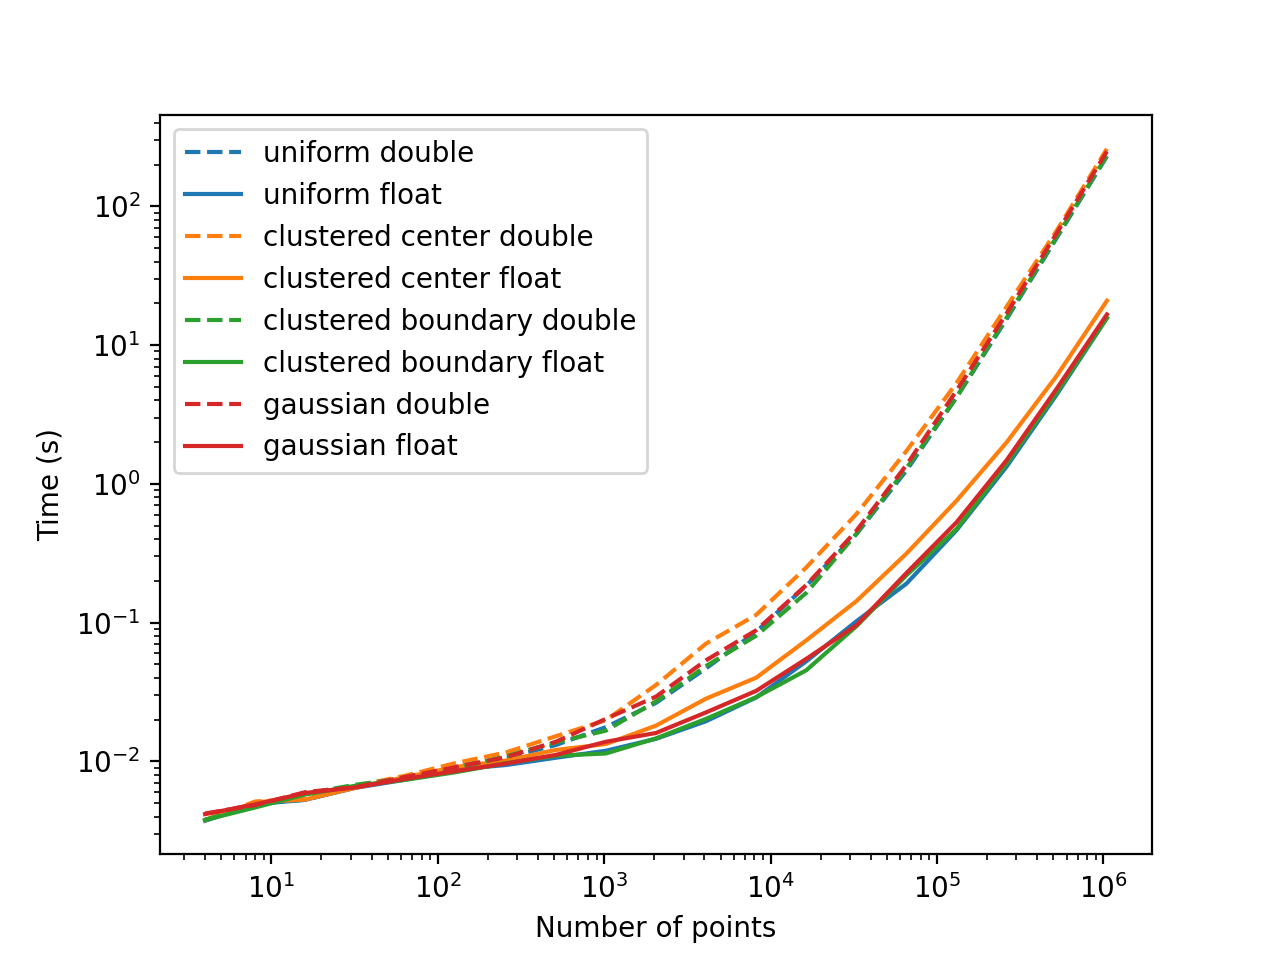
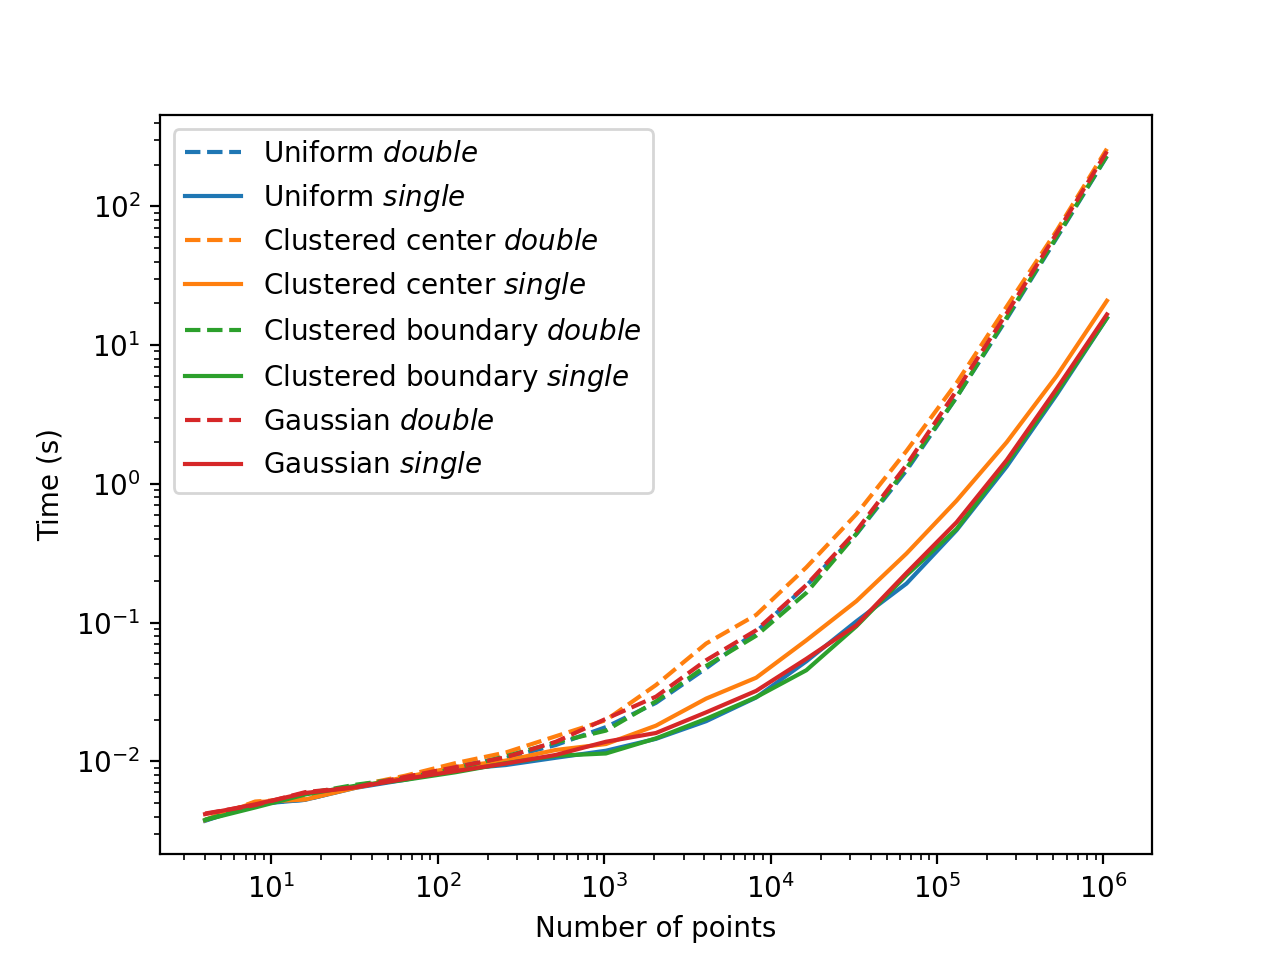
maybe semi final commit

Changed region(s): [[0.125, 0.125, 0.5312, 0.5]]

diff --git a/main/plotting/timeDistrib/plot.py b/main/plotting/timeDistrib/plot.py
@@ -4,45 +4,45 @@ import numpy as np
 
 df = pd.read_csv("./data.csv")
 
-for i, numpoints in enumerate([100, 1000, 10000]):
-	subdf = df[ df["npts"] == numpoints ]
-	print(subdf)
+npoints_list = [100, 1000, 10000]
 
-	plt.subplot(3, 1, i+1)
-	
-	# Average across seeds
+fig, axes = plt.subplots(len(npoints_list), 1, figsize=(10, 9), sharex=True)
+
+for i, numpoints in enumerate(npoints_list):
+	subdf = df[df["npts"] == numpoints]
+
 	metrics = ["prepForInsertTimeTot", "insertTimeTot", "flipTimeTot", "updatePtsTimeTot"]
 	avg_subdf = subdf.groupby("distribution")[metrics].mean()
 
-	#print(avg_subdf)
-
-	# Normalize each row so values sum to 1 (i.e., percentage)
 	normalized = avg_subdf.div(avg_subdf.sum(axis=1), axis=0)
 
-	# Labels and styling
 	distributions = ["Uniform", "Clustered center", "Clustered boundary", "Gaussian"]
 	colors = ['forestgreen', 'gold', 'cornflowerblue', 'salmon']
 	hatches = ['..', '//', '\\\\', 'xx']
 	labels = ["prepForInsert", "insert", "flip", "updatePointLocations"]
 
-	# Plotting
+	ax = axes[i]
 	y = np.arange(len(distributions))
 	left = np.zeros(len(distributions))
 
-	for i, (metric, color, hatch, label) in enumerate(zip(metrics, colors, hatches, labels)):
+	for j, (metric, color, hatch, label) in enumerate(zip(metrics, colors, hatches, labels)):
 		values = normalized[metric].values
-		plt.barh(y, values, left=left, color=color, edgecolor='black', hatch=hatch, label=label)
+		ax.barh(y, values, left=left, color=color, edgecolor='black', hatch=hatch, label=label if i == 0 else "")
 		left += values
 
+	ax.set_yticks(y)
+	ax.set_yticklabels(distributions)
+	ax.set_xlim(0, 1)
+	ax.set_xticks(np.linspace(0, 1, 6))
+	ax.set_xticklabels([f"{int(x*100)}%" for x in np.linspace(0, 1, 6)])
+	if i == 2:
+		ax.set_xlabel("Proportion of Total Time")
+	exp = int(np.log10(numpoints))
+	ax.set_title(f"Number of Points = $10^{exp}$")
 
-	plt.yticks(y, distributions)
-	plt.xlabel("Proportion of Total Time")
-	plt.xlim(0, 1)
-	plt.xticks(np.linspace(0, 1, 6), [f"{int(x*100)}%" for x in np.linspace(0, 1, 6)])
-	#plt.legend(loc="upper center", ncol=2)
-	plt.legend(loc="upper center", bbox_to_anchor=(0.5, 1.25), ncol=2)
+handles, labels = axes[0].get_legend_handles_labels()
+fig.legend(handles, labels, loc="upper center", bbox_to_anchor=(0.55, 1.00), ncol=2)
 
-#plt.figure(figsize=(9, 4))
-plt.tight_layout()
-
+plt.tight_layout(rect=[0, 0, 1, 0.95])
 plt.savefig("timeDistrib.png", dpi=200)
+

diff --git a/main/plotting/floatVsDouble/plot.py b/main/plotting/floatVsDouble/plot.py
@@ -6,8 +6,7 @@ dfFloat = pd.read_csv("./dataFloat.csv")
 dfDouble = pd.read_csv("./dataDouble.csv")
 
 colors = ["tab:blue", "tab:orange", "tab:green", "tab:red"]
-dist_names = ["uniform", "clustered center", "clustered boundary", "gaussian"]
-#plt.figure(figsize=(10, 4))
+dist_names = ["Uniform", "Clustered center", "Clustered boundary", "Gaussian"]
 nptsFloat = []
 for i, dist in enumerate(dist_names):
 	dfDouble_distrib = dfDouble[ dfDouble["distribution"] == i ].groupby('npts')['totalRuntime'].mean().reset_index()
@@ -19,25 +18,11 @@ for i, dist in enumerate(dist_names):
 	timeDouble = np.array(dfDouble_distrib["totalRuntime"])
 	timeFloat = np.array(dfFloat_distrib["totalRuntime"])
 
-	#plt.subplot(1, 2, 1)
-#	plt.plot(nptsDouble, timeDouble, label=f"{dist} double", linestyle="--", color=colors[i])
-#	plt.plot(nptsFloat,  timeFloat, label=f"{dist} float"  , linestyle="-" , color=colors[i])
-	plt.loglog(nptsDouble, timeDouble, label=f"{dist} double", linestyle="--", color=colors[i])
-	plt.loglog(nptsFloat,  timeFloat, label=f"{dist} float"  , linestyle="-" , color=colors[i])
+	plt.loglog(nptsDouble, timeDouble, label=f"{dist}" + r" $\mathit{double}$", linestyle="--", color=colors[i])
+	plt.loglog(nptsFloat , timeFloat , label=f"{dist}" + r" $\mathit{single}$", linestyle="-" , color=colors[i])
 
-#	plt.subplot(1, 2, 2)
-#	plt.loglog(nptsDouble, timeDouble, label=f"{dist} double", linestyle="--", color=colors[i])
-#	plt.loglog(nptsFloat,  timeFloat, label=f"{dist} float"  , linestyle="-" , color=colors[i])
-
-#plt.subplot(1, 2, 1)
-#plt.plot(nptsFloat, nptsFloat**2, label=r"$x^2$")
 plt.xlabel("Number of points")
 plt.ylabel("Time (s)")
 plt.legend()
-
-#plt.subplot(1, 2, 2)
-#plt.xlabel("Number of points")
-#plt.ylabel("Time (s)")
-#plt.legend()
 
 plt.savefig("floatVsDouble.png", dpi=200)

diff --git a/main/plotting/ninsertVsIter/plot.py b/main/plotting/ninsertVsIter/plot.py
@@ -1,14 +1,44 @@
+#import numpy as np
+#import matplotlib.pyplot as plt 
+#import pandas as pd
+#
+#nins = np.loadtxt("./insertedPerIter.txt", dtype=int)
+#iter = np.arange(0, len(nins), 1) 
+#
+#plt.bar(iter, nins, color="cornflowerblue", edgecolor="black", hatch="//");
+#
+#plt.plot(iter[1:], [nins[i+1] / nins[i] for i in range(len(iter)-1)])
+#
+#plt.xlabel("Iteration")
+#plt.ylabel("Number of point insertions")
+#plt.savefig("ninsertVsIter.png", dpi=200)
+#
+
 import numpy as np
-import matplotlib.pyplot as plt 
-import pandas as pd
+import matplotlib.pyplot as plt
 
 nins = np.loadtxt("./insertedPerIter.txt", dtype=int)
+iter = np.arange(len(nins))
 
-iter = np.arange(0, len(nins), 1) 
+ratios = [nins[i+1] / nins[i] for i in range(len(nins)-1)]
 
-plt.bar(iter, nins,
-		color="cornflowerblue", edgecolor="black", hatch="//");
-plt.xlabel("Iteration")
-plt.ylabel("Number of point insertions")
+#fig, ax1 = plt.subplots(figsize=(8, 5))
+fig, ax1 = plt.subplots()
 
+bars = ax1.bar(iter, nins, color="cornflowerblue", edgecolor="black", hatch="//")
+ax1.set_xlabel("Iteration")
+ax1.set_ylabel("Number of point insertions")
+ax1.tick_params(axis="y")
+
+ax2 = ax1.twinx()
+line, = ax2.plot(iter[1:], ratios, color="red", marker="o", label="ratio")
+ax2.set_ylabel("Ratio of next number of insertions to previous")
+ax2.tick_params(axis="y")
+
+handles = [bars, line]
+labels = ["Number of insertions", "Insertion ratio"]
+ax1.legend(handles, labels, loc="center left")
+
+plt.tight_layout()
 plt.savefig("ninsertVsIter.png", dpi=200)
+
